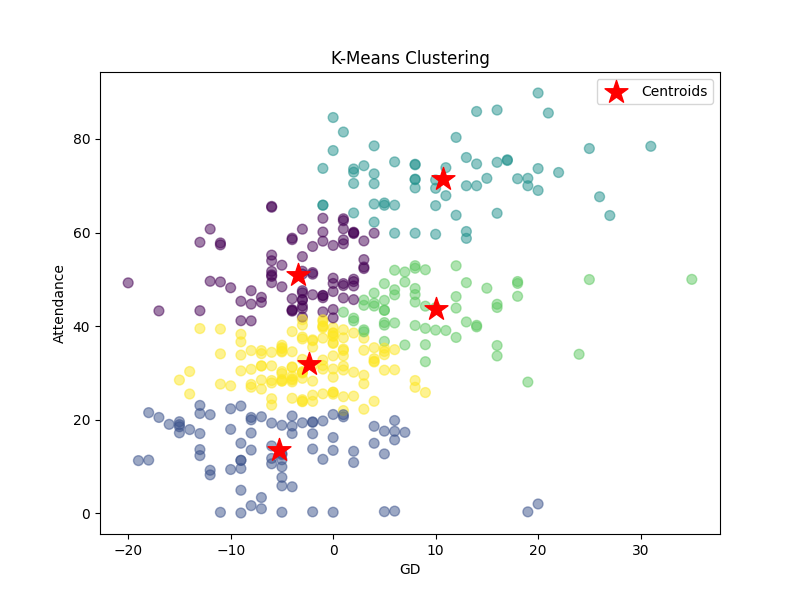
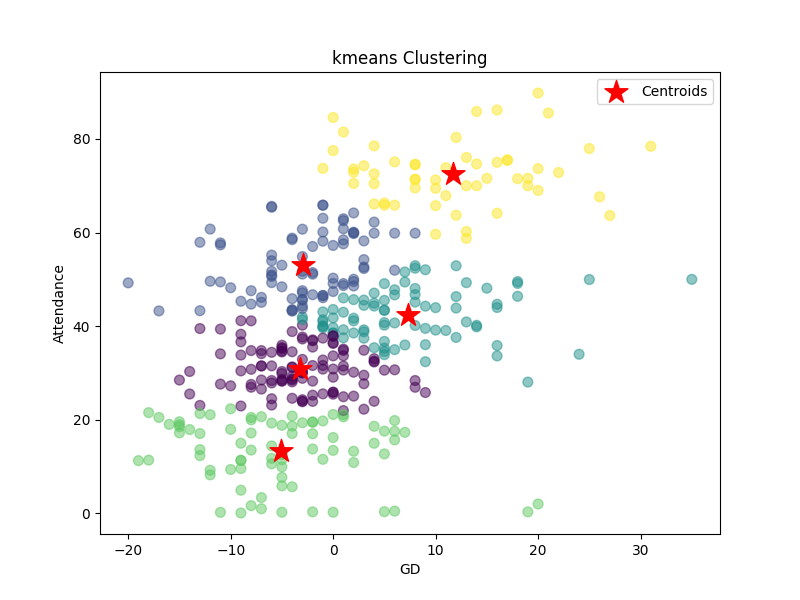
Gneralizamos el codigo para otros modelos de cluster

diff --git a/Clusters/Cluster.py b/Clusters/Cluster.py
@@ -1,22 +1,28 @@
 import pandas as pd
 import matplotlib.pyplot as plt
-from sklearn.cluster import KMeans
+from sklearn.cluster import KMeans, AgglomerativeClustering
 
-class K_Means:
+class Cluster:
 
-    def __init__(self, data_path):
+    def __init__(self, data_path, cluster_type:str='kmeans'):
         self.data_path = data_path
+        self.cluster_type = cluster_type.lower()
         self.df = pd.read_csv(data_path)
         self.df.drop('Squad', axis=1, inplace=True)
         self.df.drop('Top Team Scorer', axis=1, inplace=True)
         self.df.drop('Goalkeeper', axis=1, inplace=True)
 
 
-    def fit_model(self, features, clusters:int):
+    def fit_model(self, features, clusters:int=3):
         self.X = self.df[features]
-        kmeans = KMeans(n_clusters=clusters)
-        kmeans.fit(self.X)
-        return kmeans
+        if self.cluster_type == 'kmeans':
+            if self.cluster_type == 'kmean':
+                self.cluster_type = 'kmeans'
+            model = KMeans(n_clusters=clusters)
+        elif self.cluster_type == 'agglomerative':
+            model = AgglomerativeClustering(n_clusters=clusters)
+        model.fit(self.X)
+        return model
     
     
     def plot_results(self, model):
@@ -26,6 +32,6 @@ class K_Means:
         plt.scatter(centroids[:, 0], centroids[:, 1], marker='*', s=300, c='red', label='Centroids')
         plt.xlabel(self.X.columns[0])
         plt.ylabel(self.X.columns[1])
-        plt.title('K-Means Clustering')
+        plt.title(f'{self.cluster_type} Clustering')
         plt.legend()
-        plt.savefig(f'Clusters/img/KMeans/KMeans-{self.X.columns[0]}-{self.X.columns[1]}.png')
+        plt.savefig(f'Clusters/img/{self.cluster_type}/{self.cluster_type}-{self.X.columns[0]}-{self.X.columns[1]}.png')

diff --git a/lanzador.py b/lanzador.py
@@ -1,10 +1,12 @@
-from Clusters.KMeans import K_Means
+from Clusters.Cluster import Cluster
 
 class Lanzador:
 
-    def lanzar_kmeans():
-        kmean = K_Means('./UEFA_Analisis_CSV/UEFA_Final_Data.csv')
-        column_combinations = [['GF', 'Pts'], ['GF', 'GD'], ['GF', 'Attendance'], ['GD', 'Pts'], ['GD', 'Attendance']]
-        for column in column_combinations:
+    def __init__(self):
+        self.column_combinations = [['GF', 'Pts'], ['GF', 'GD'], ['GF', 'Attendance'], ['GD', 'Pts'], ['GD', 'Attendance']]
+
+    def lanzar_kmeans(self):
+        kmean = Cluster('./UEFA_Analisis_CSV/UEFA_Final_Data.csv', 'Kmeans')
+        for column in self.column_combinations:
             model = kmean.fit_model(list(column), 5)
             kmean.plot_results(model)

diff --git a/main.py b/main.py
@@ -2,4 +2,5 @@ from lanzador import Lanzador
 
 if __name__ == '__main__':
 
-    Lanzador.lanzar_kmeans()
+    lanzador = Lanzador()
+    lanzador.lanzar_kmeans()
